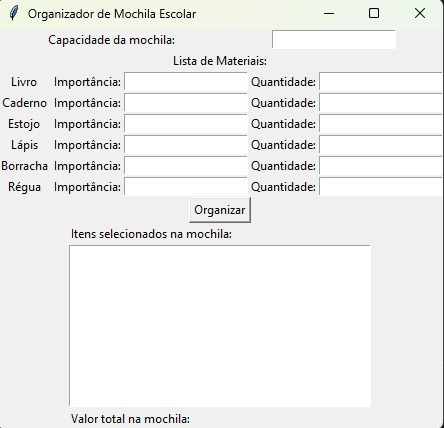
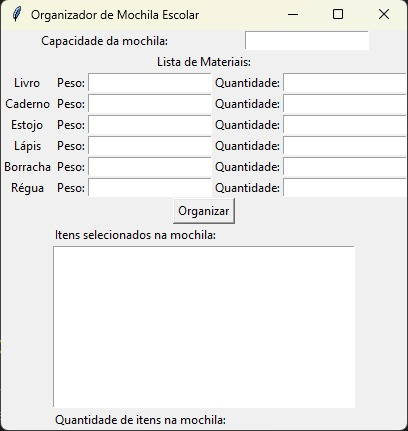
Editando READ-ME

diff --git a/README.md b/README.md
@@ -11,9 +11,9 @@
 
 ## Sobre 
 
-Esse código é um exemplo de implementação do algoritmo Knapsack no no problema da mochila, onde o usuário vai escolher a quantidade de matériais que a mochila suporta, em seguida o usuário deve fonecer a prioridade dos matériais e a quantidade que ele quer levar na mochila.
+Esse código é um exemplo de implementação do algoritmo Knapsack no no problema da mochila, onde o usuário vai escolher o peso dos matériais e a quantidade deles, além do tanto de peso que a mochila é capaz de suportar.
 
-Ao final deve apertar em organizar e o programa vai mostrar os itens que a mochila vai suportar, dando dando prioridade aos itens com maior importância (A importância se da em ordem crescente, logo a importância 1 é a que terá maior prioridade).
+Ao final deve apertar em organizar e o programa vai mostrar os itens que a mochila vai suportar, dando prioridade ao maior número mais próximo da capacidade máxima.
 
 ### Vídeo de apresentação
 [Apresentação]()
